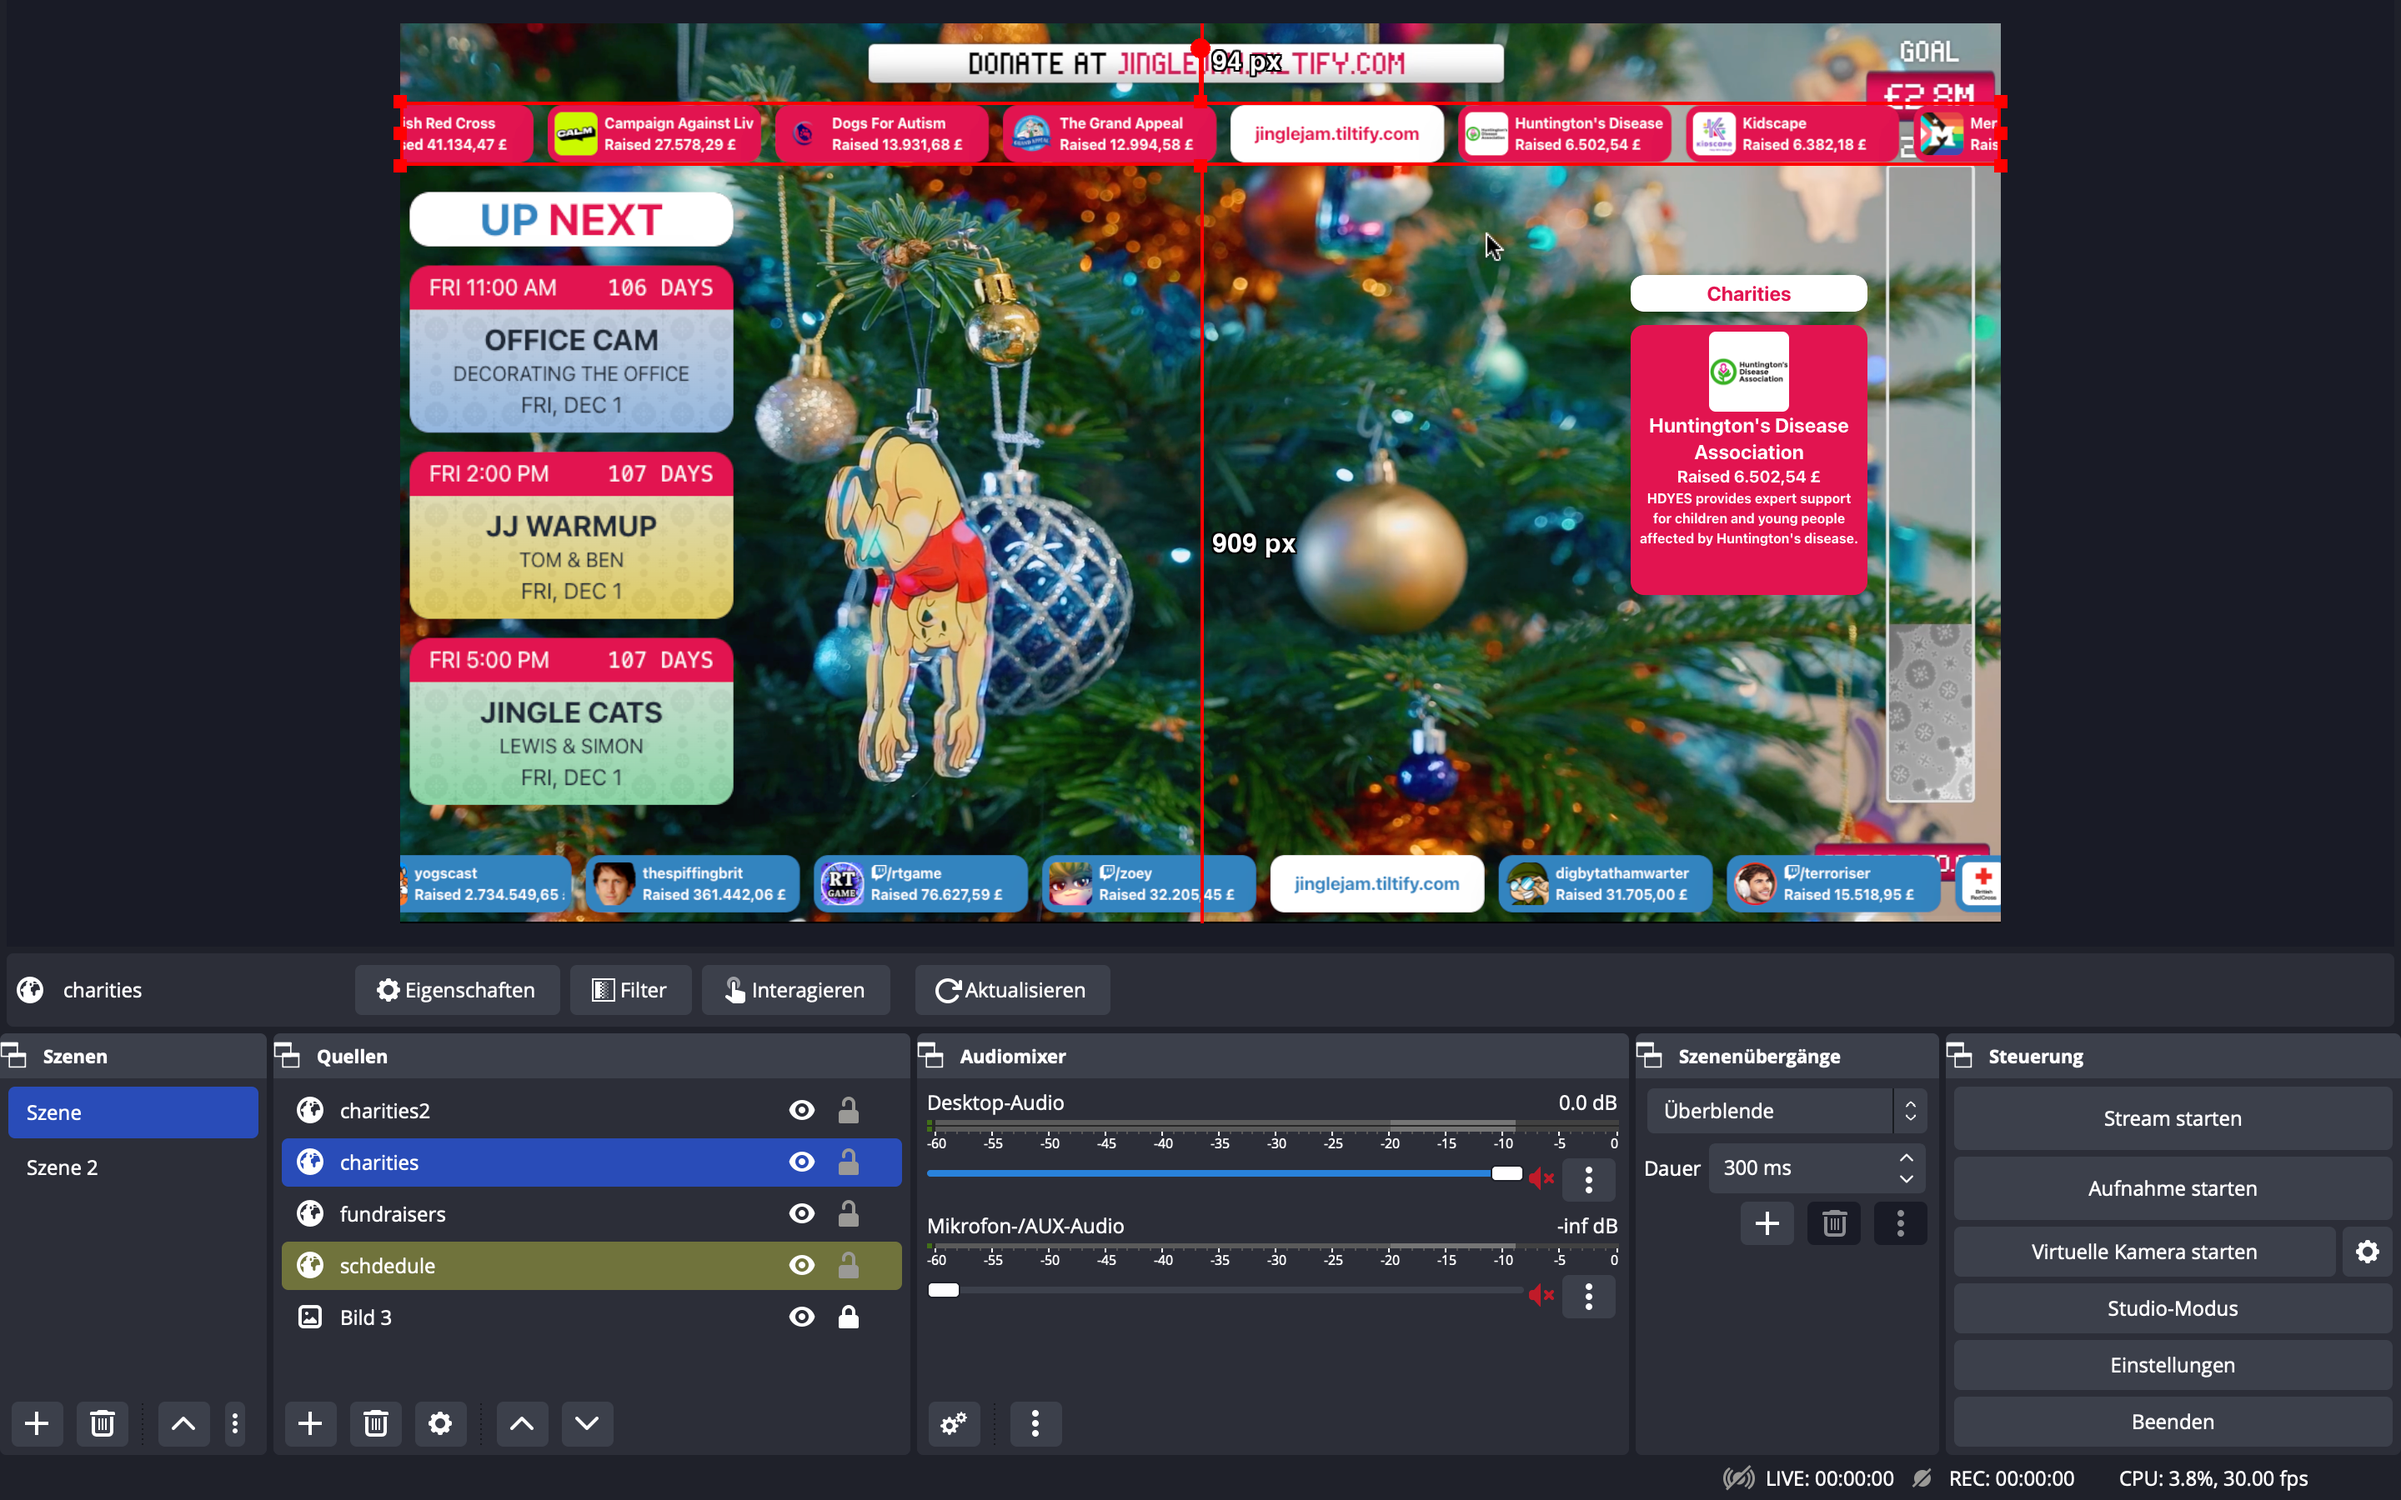
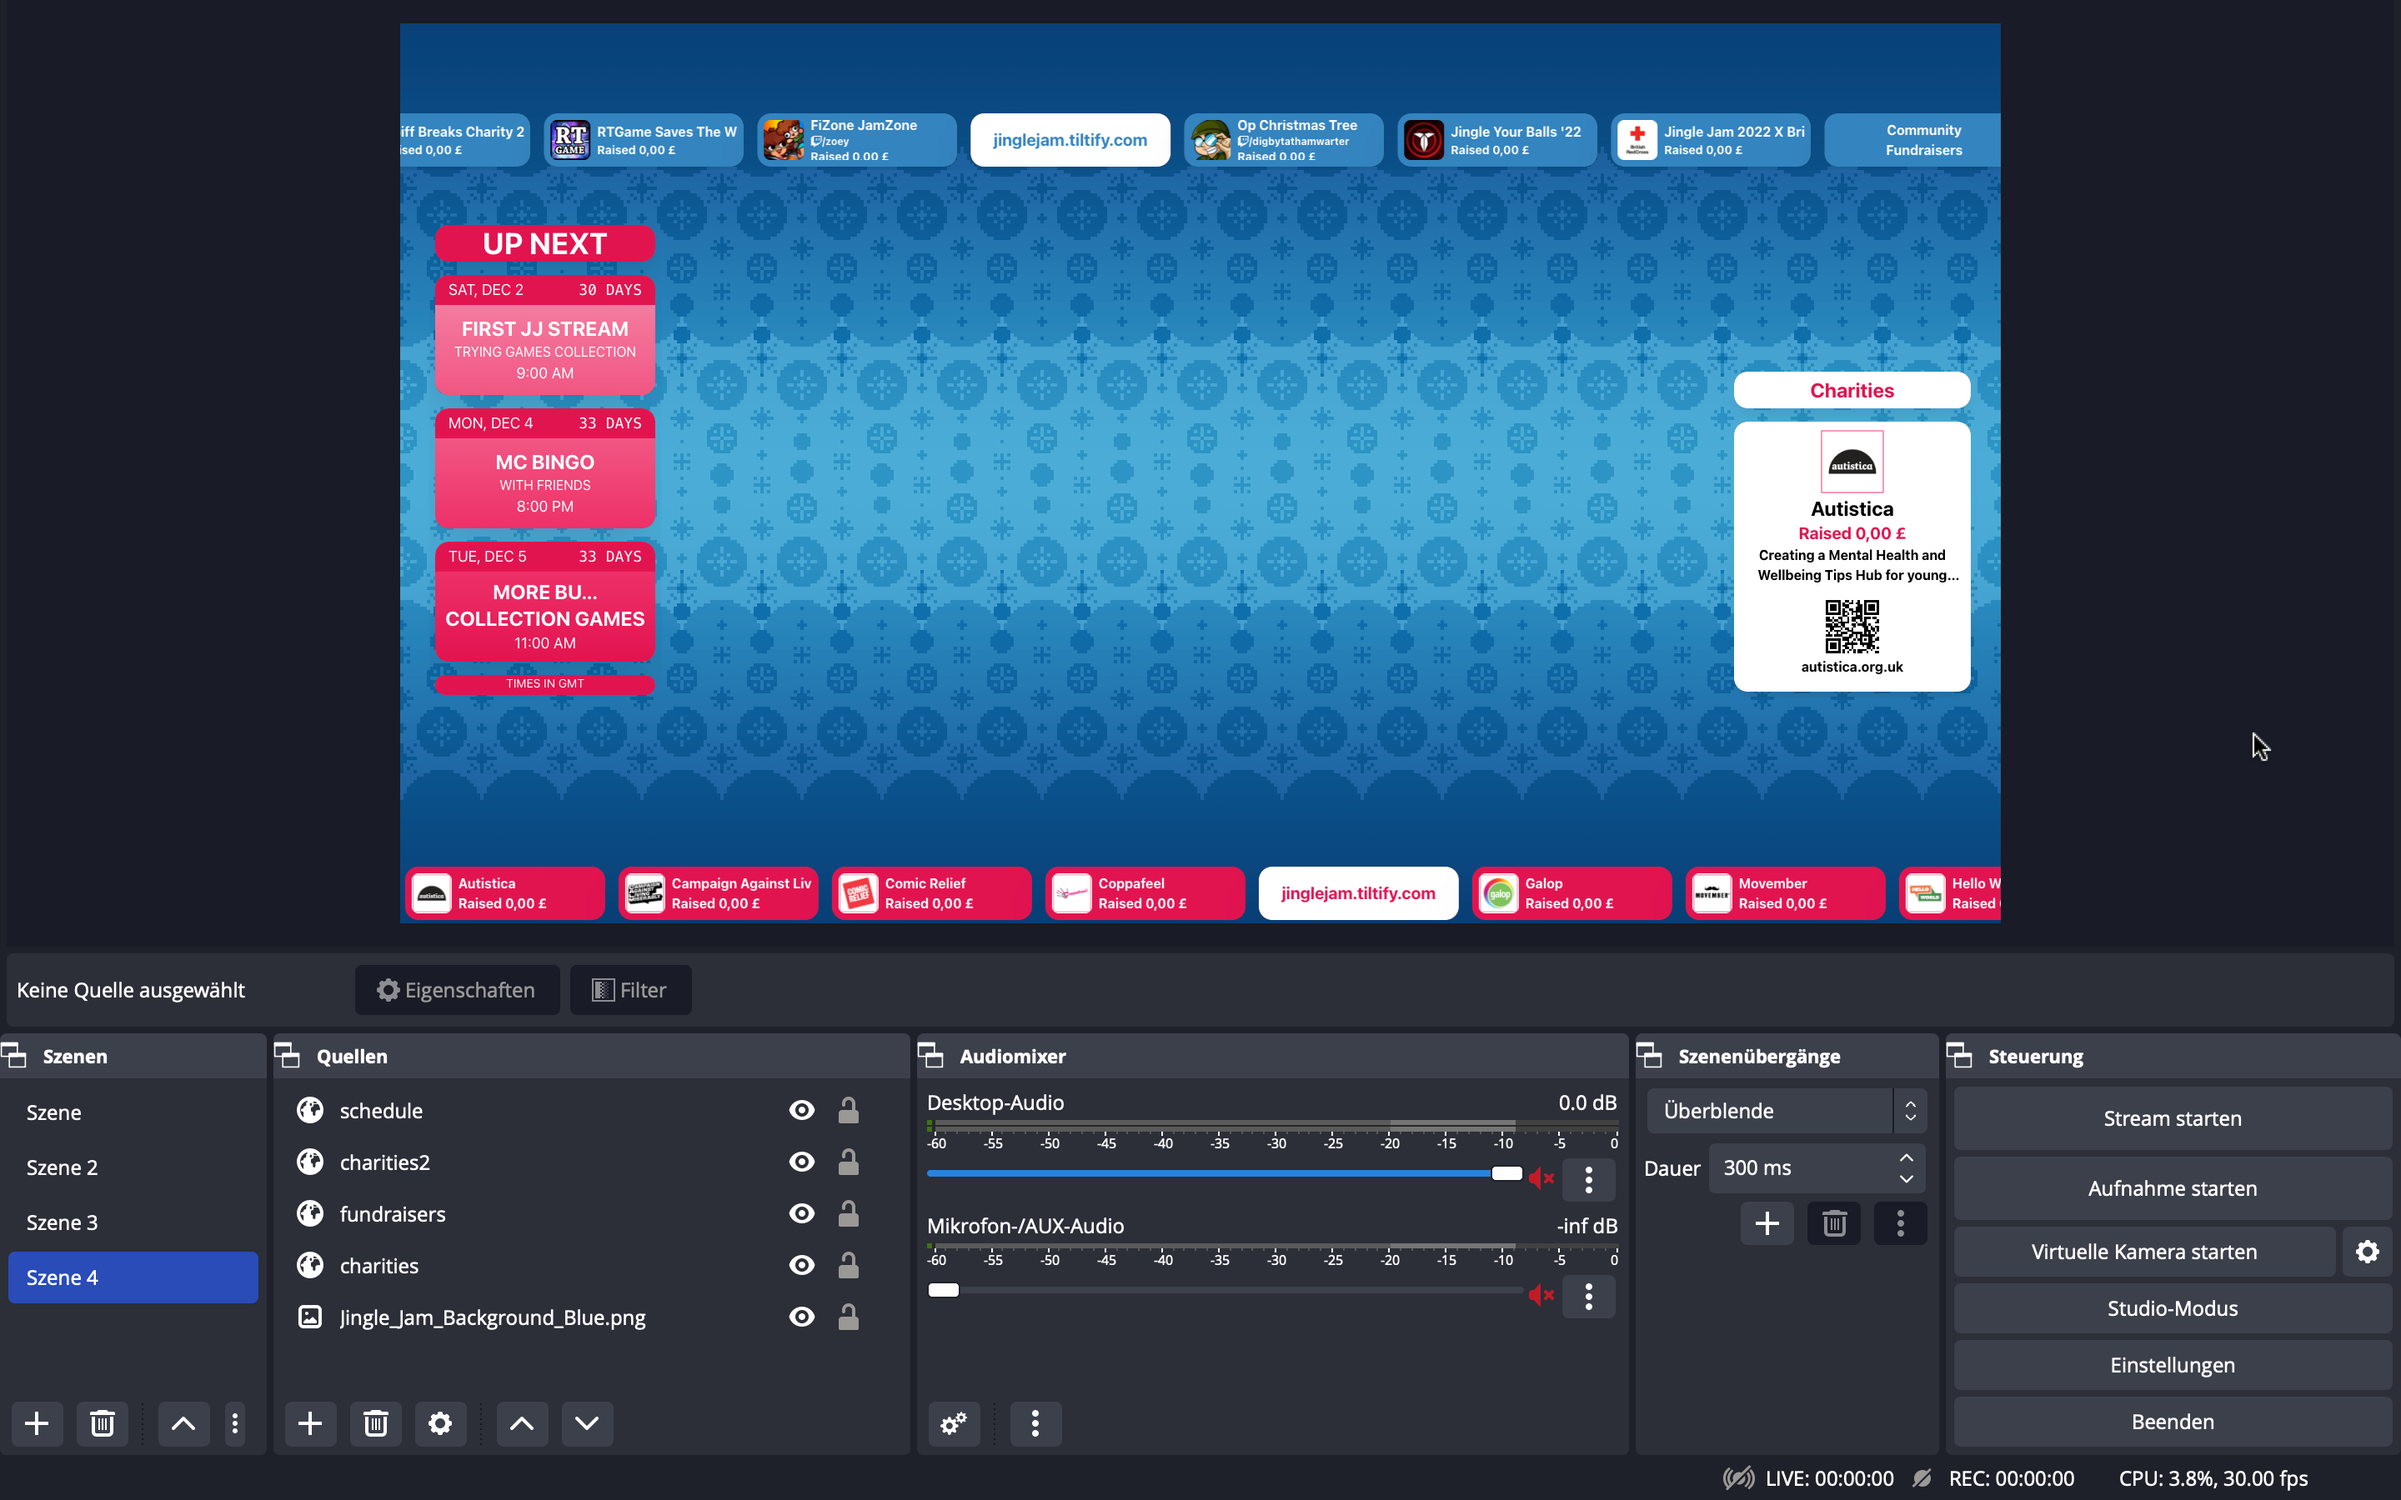
update charity overlay assets

diff --git a/apps/jj_schedule_website/src/overlay/overview/OverlayOverview.tsx b/apps/jj_schedule_website/src/overlay/overview/OverlayOverview.tsx
@@ -67,54 +67,64 @@ export const OverlayOverview: Component = () => {
       <div
         class={'mx-auto flex w-fit flex-col items-center p-1 text-center text-base text-white md:w-[50%] md:text-2xl'}
       >
-        <div class={'p-2'}>
-          <p>Screenshots</p>
-          <Dialog.Root open={open()} onOpenChange={setOpen}>
-            <img
-              class={'hover:scale-105 hover:cursor-pointer'}
-              src={overlay1}
-              alt={'Screenshot from OBS'}
-              onclick={() => {
-                setOpen(!open())
-              }}
-              loading={'lazy'}
-            />
-            <Dialog.Portal>
-              <Dialog.Overlay class={'fixed inset-0 z-50 bg-black bg-opacity-20'} />
-              <div class={'fixed inset-0 z-50 flex items-center justify-center'}>
-                <Dialog.Content class={'h-full w-[90%] p-2'}>
-                  <img class={''} src={overlay1} alt={'Screenshot from OBS'} loading={'lazy'} />
-                </Dialog.Content>
-              </div>
-            </Dialog.Portal>
-          </Dialog.Root>
-          <p class={'text-xs'}>
-            A OBS Scene with all available JJ Community Overlays. The background is a screenshot of a Yogscast Jingle
-            Jam Stream.
-          </p>
-        </div>
-        <div class={'p-2'}>
-          <Dialog.Root open={open2()} onOpenChange={setOpen2}>
-            <img
-              class={'hover:scale-105 hover:cursor-pointer'}
-              src={overlay2}
-              alt={'Screenshot from OBS'}
-              onclick={() => {
-                setOpen2(!open2())
-              }}
-              loading={'lazy'}
-            />
-            <Dialog.Portal>
-              <Dialog.Overlay class={'fixed inset-0 z-50 bg-black bg-opacity-20'} />
-              <div class={'fixed inset-0 z-50 flex items-center justify-center'}>
-                <Dialog.Content class={'h-full w-[90%] p-2'}>
-                  <img class={''} src={overlay2} alt={'Screenshot from OBS'} loading={'lazy'} />
-                </Dialog.Content>
-              </div>
-            </Dialog.Portal>
-          </Dialog.Root>
-          <p class={'text-xs'}>Editing the Schedule Browser Source</p>
-        </div>
+        <p>Screenshots</p>
+        <Dialog.Root open={open()} onOpenChange={setOpen}>
+          <div
+            class={'flex flex-col gap-2 p-2 transition-all hover:scale-105 hover:cursor-pointer'}
+            onclick={() => {
+              setOpen(!open())
+            }}
+          >
+            <img src={overlay1} alt={'Screenshot from OBS'} loading={'lazy'} />
+            <p class={'text-xs'}>
+              A OBS Scene with all available JJ Community Overlays. The background is an asset from the JJ Streamer
+              Toolkit 2022
+            </p>
+          </div>
+          <Dialog.Portal>
+            <Dialog.Overlay class={'fixed inset-0 z-50 bg-black bg-opacity-20'} />
+            <div class={'fixed inset-0 z-50 flex items-center justify-center'}>
+              <Dialog.Content class={'h-full w-[90%] p-2'}>
+                <img
+                  class={''}
+                  onclick={() => {
+                    setOpen(!open())
+                  }}
+                  src={overlay1}
+                  alt={'Screenshot from OBS'}
+                  loading={'lazy'}
+                />
+              </Dialog.Content>
+            </div>
+          </Dialog.Portal>
+        </Dialog.Root>
+        <Dialog.Root open={open2()} onOpenChange={setOpen2}>
+          <div
+            class={'flex flex-col gap-2 p-2 transition-all hover:scale-105 hover:cursor-pointer'}
+            onclick={() => {
+              setOpen2(!open2())
+            }}
+          >
+            <img class={''} src={overlay2} alt={'Screenshot from OBS'} loading={'lazy'} />
+            <p class={'text-xs'}>Editing the Community Fundraiser scrolling overlay</p>
+          </div>
+          <Dialog.Portal>
+            <Dialog.Overlay class={'fixed inset-0 z-50 bg-black bg-opacity-20'} />
+            <div class={'fixed inset-0 z-50 flex items-center justify-center'}>
+              <Dialog.Content class={'h-full w-[90%] p-2'}>
+                <img
+                  class={''}
+                  onclick={() => {
+                    setOpen2(!open2())
+                  }}
+                  src={overlay2}
+                  alt={'Screenshot from OBS'}
+                  loading={'lazy'}
+                />
+              </Dialog.Content>
+            </div>
+          </Dialog.Portal>
+        </Dialog.Root>
       </div>
     </div>
   )
